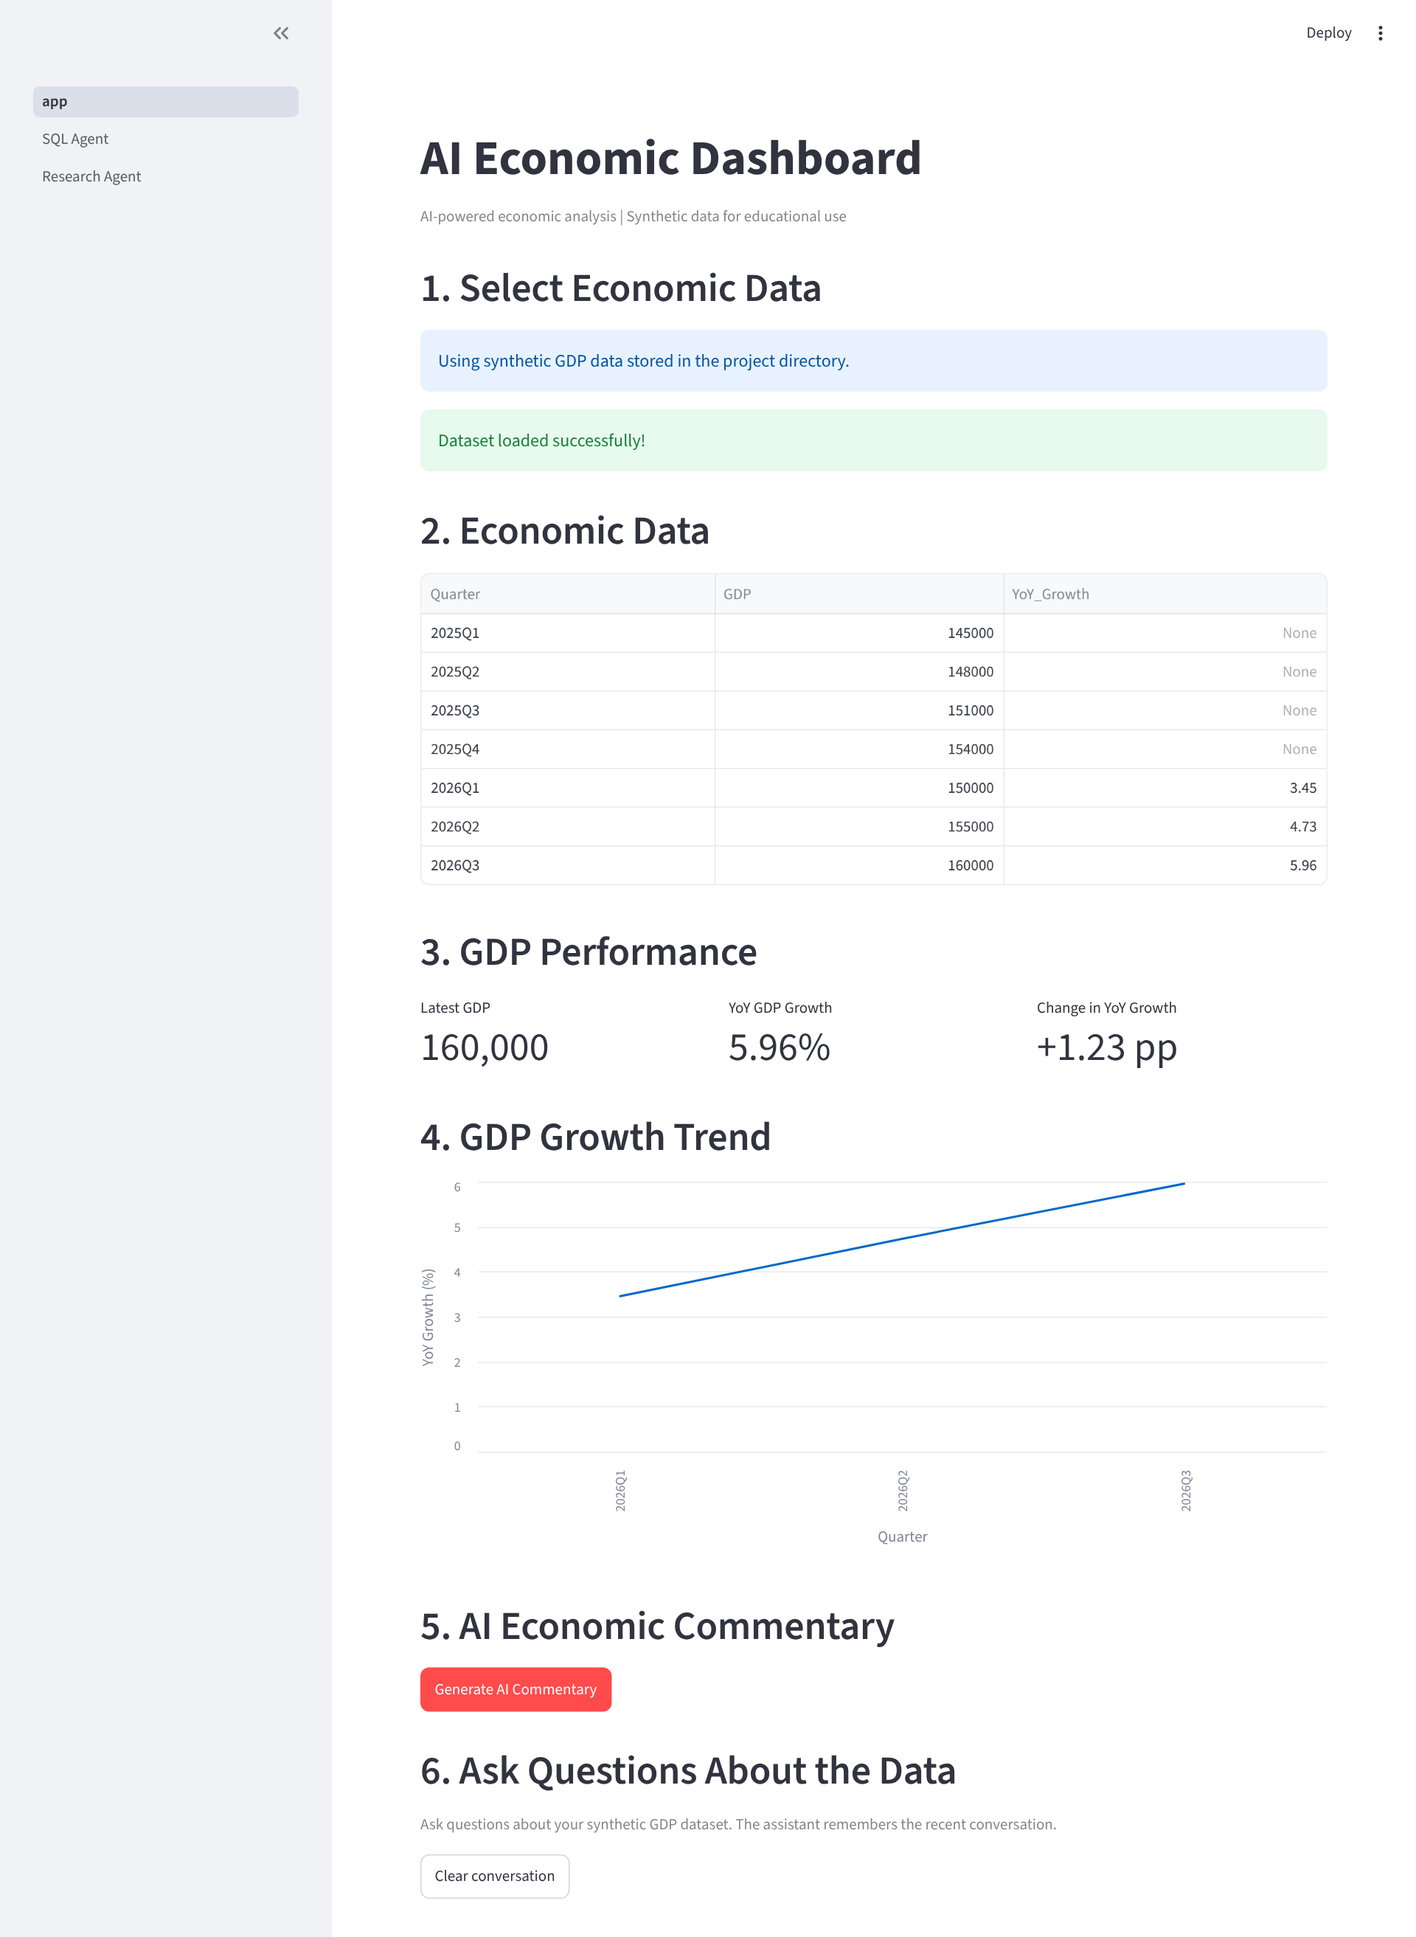
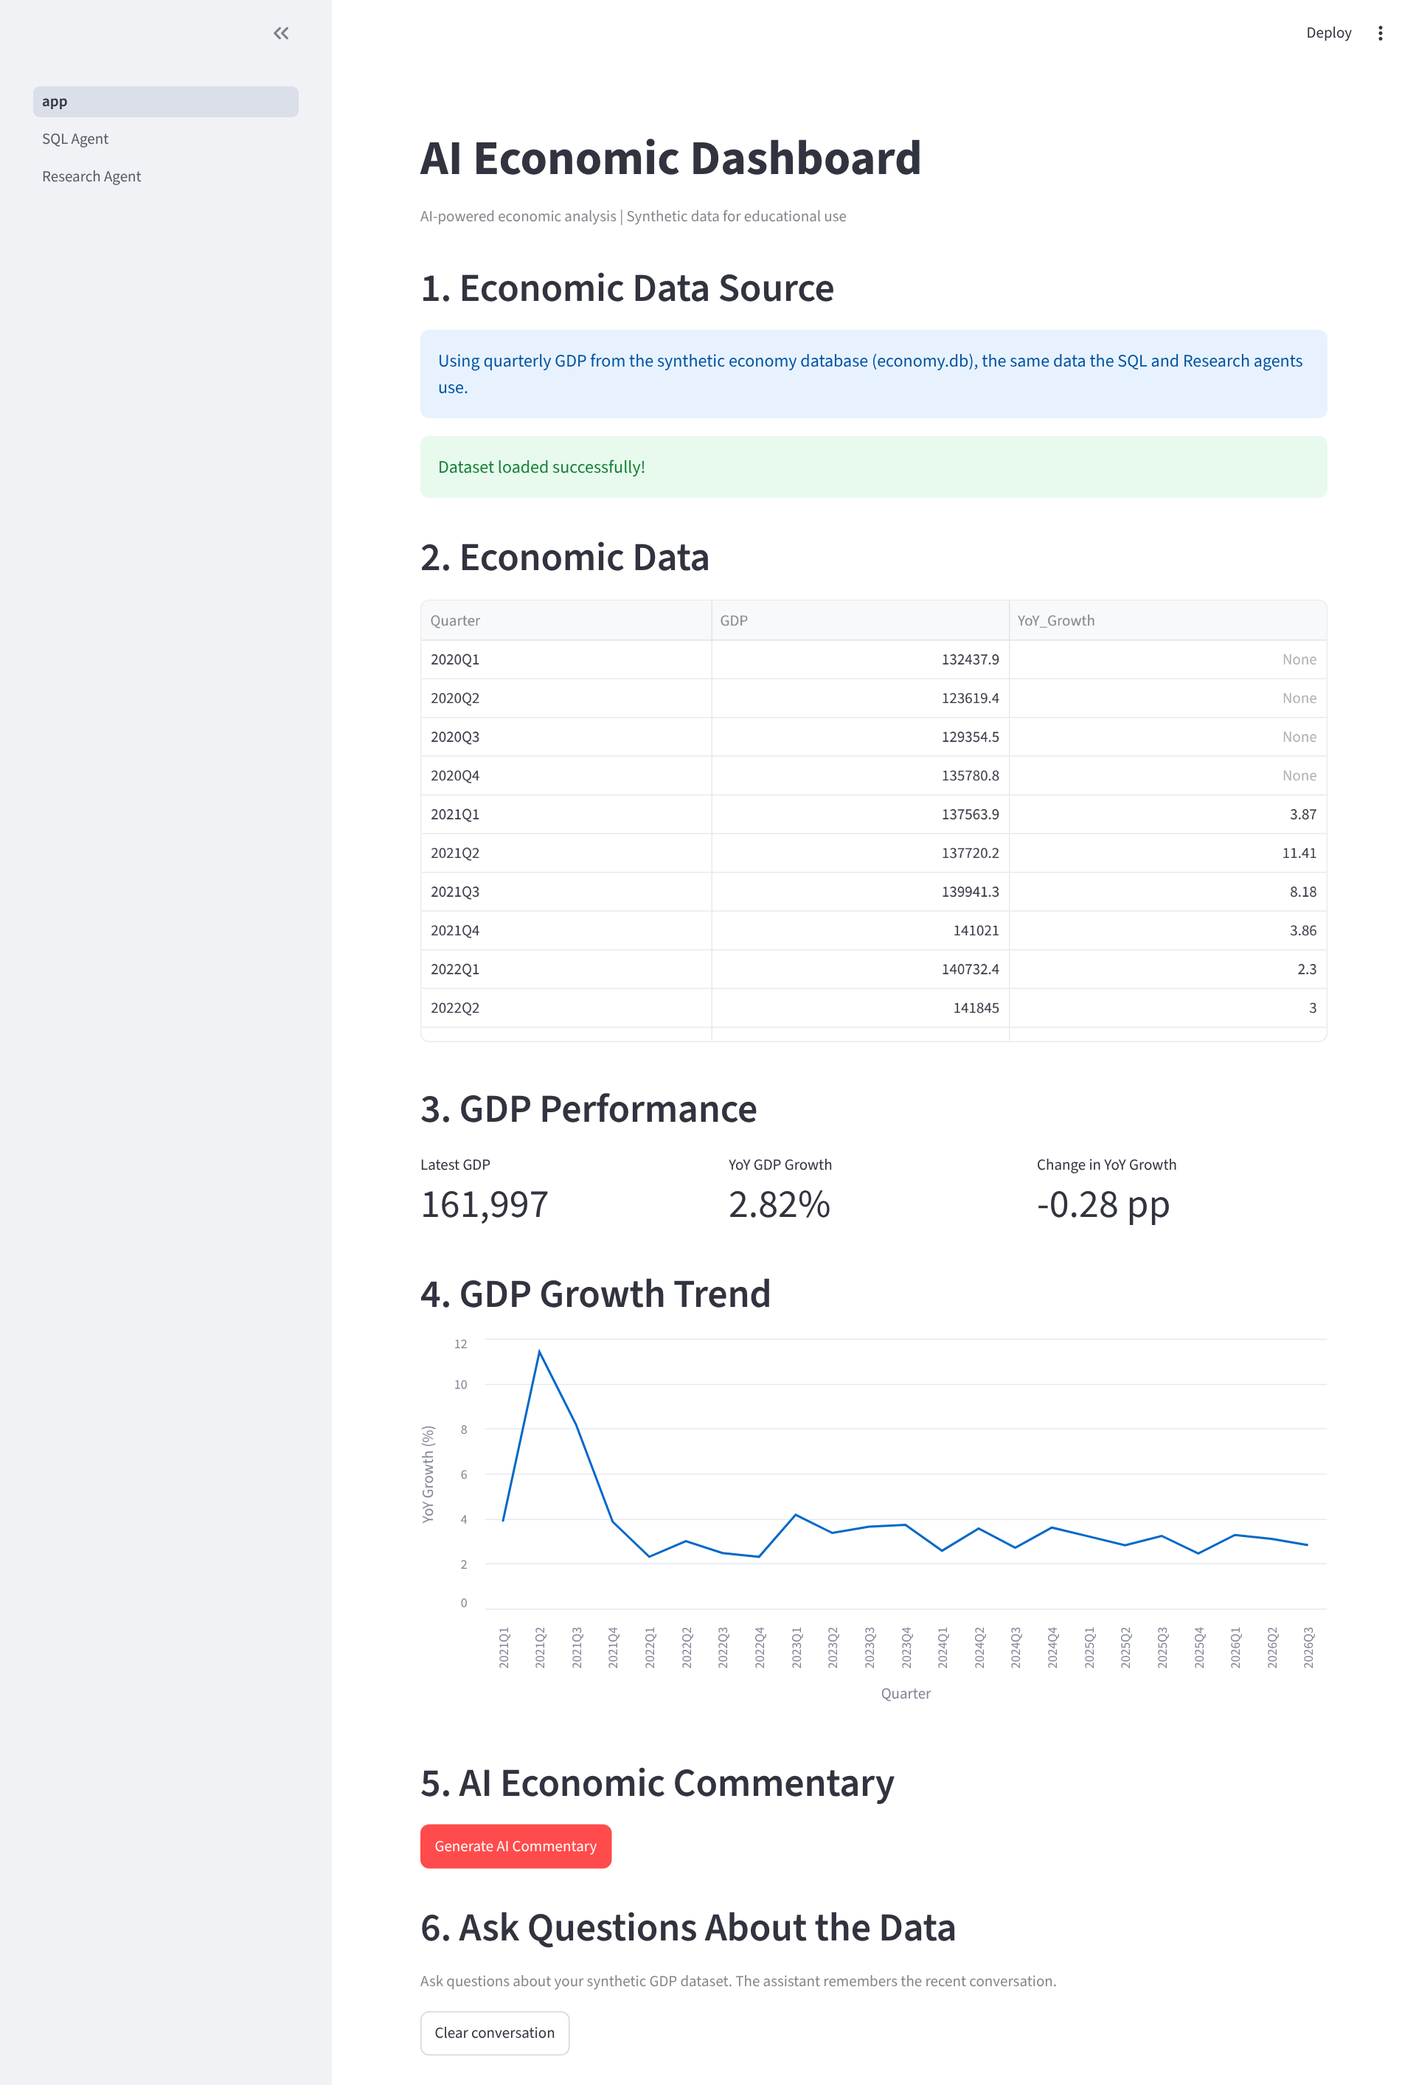
Use economy.db as the single data source for the dashboard
The dashboard, its chat agent and /metrics read a 7-quarter CSV whose
figures disagreed with economy.db (2026Q3 YoY growth 5.96% vs 2.82%).
They now read the gdp_quarterly view, so every page reports the same
numbers and the growth chart covers 23 quarters.

- economic_analyst.load_data reads economy.db read-only; validation
  moves to validate_data.
- Remove economic_data.csv.
- Rename the CSV agent to the dashboard agent and /ask/csv to
  /ask/dashboard.
- Add test_economic_analyst.py, including a check that the dashboard's
  growth matches the gdp_growth view.
- Update README, CLAUDE.md, Dockerfile and the screenshot.

Claude-Session: https://claude.ai/code/session_01FHMozhuKW1HHLvgubEuSCo

diff --git a/economic_analyst.py b/economic_analyst.py
@@ -1,13 +1,13 @@
 
-import os
+import sqlite3
+from pathlib import Path
+
 import pandas as pd
-#from google import genai
-#from google.genai import types
-#from openai import OpenAI
 from ai_config import get_ai_client, MODEL_NAME
 from pydantic import BaseModel
 
-#MODEL_NAME = "gemini-3.8-flash"
+DB_PATH = Path(__file__).resolve().parent / "economy.db"
+
 # =====================================
 # 1. DEFINE AI OUTPUT STRUCTURE
 # =====================================
@@ -24,14 +24,40 @@ class EconomicReport(BaseModel):
 # 2. LOAD AND VALIDATE DATA
 # =====================================
 
-def load_data(filename):
-    df = pd.read_csv(filename)
+def load_data(db_path=None):
+    """
+    Load quarterly GDP from economy.db, the same source the SQL and
+    Research agents use, so every page reports the same figures.
+    """
+    db_path = Path(db_path or DB_PATH)
+
+    if not db_path.exists():
+        raise ValueError(f"Database not found: {db_path.name}")
+
+    conn = sqlite3.connect(f"{db_path.as_uri()}?mode=ro", uri=True)
+    try:
+        df = pd.read_sql_query(
+            "SELECT quarter AS Quarter, gdp AS GDP "
+            "FROM gdp_quarterly ORDER BY quarter",
+            conn,
+        )
+    except (sqlite3.Error, pd.errors.DatabaseError) as error:
+        raise ValueError(f"Could not read GDP data: {error}")
+    finally:
+        conn.close()
+
+    return validate_data(df)
+
+
+def validate_data(df):
+    """Check a Quarter/GDP table and return it sorted by quarter."""
+    df = df.copy()
 
     required = {"Quarter", "GDP"}
 
     if not required.issubset(df.columns):
         raise ValueError(
-            "CSV must contain Quarter and GDP columns"
+            "Data must contain Quarter and GDP columns"
         )
 
     if df.empty:
@@ -240,11 +266,10 @@ def save_report(report, stats, filename):
 # =====================================
 
 def main():
-    input_file = "economic_data.csv"
     output_file = "economic_report.txt"
 
     print("Loading economic data...")
-    df = load_data(input_file)
+    df = load_data()
 
     print("Calculating GDP growth...")
     stats = calculate_growth(df)

diff --git a/test_economic_analyst.py b/test_economic_analyst.py
@@ -1,0 +1,66 @@
+"""Offline tests for loading and validating the dashboard's GDP data."""
+import sqlite3
+
+import pandas as pd
+import pytest
+
+from build_database import build_database
+from economic_analyst import calculate_growth, load_data, validate_data
+from sql_tools import run_sql_query
+
+
+@pytest.fixture
+def db(tmp_path):
+    path = tmp_path / "test.db"
+    build_database(path)
+    return path
+
+
+def test_loads_every_quarter_in_order(db):
+    df = load_data(db)
+    assert len(df) == 27
+    assert str(df["Quarter"].iloc[0]) == "2020Q1"
+    assert str(df["Quarter"].iloc[-1]) == "2026Q3"
+
+
+def test_dashboard_growth_matches_the_sql_view(db):
+    # The dashboard and the SQL agents must report the same figures
+    stats = calculate_growth(load_data(db))
+    rows = run_sql_query(
+        "SELECT quarter, yoy_growth_pct FROM gdp_growth "
+        "ORDER BY quarter DESC LIMIT 2", db
+    )["rows"]
+    assert stats["quarter"] == rows[0][0]
+    assert stats["growth"] == pytest.approx(rows[0][1])
+    assert stats["previous_growth"] == pytest.approx(rows[1][1])
+
+
+def test_missing_database_raises_value_error(tmp_path):
+    with pytest.raises(ValueError, match="not found"):
+        load_data(tmp_path / "missing.db")
+
+
+def test_database_without_the_view_raises_value_error(tmp_path):
+    path = tmp_path / "empty.db"
+    sqlite3.connect(path).close()
+    with pytest.raises(ValueError, match="Could not read"):
+        load_data(path)
+
+
+def frame(quarters, gdp):
+    return pd.DataFrame({"Quarter": quarters, "GDP": gdp})
+
+
+QUARTERS = ["2025Q1", "2025Q2", "2025Q3", "2025Q4", "2026Q1", "2026Q2"]
+
+
+@pytest.mark.parametrize("df, message", [
+    (frame(QUARTERS[:5] + ["2026Q3"], [1] * 6), "Missing quarters"),
+    (frame(QUARTERS[:5] + ["2026Q1"], [1] * 6), "Duplicate"),
+    (frame(QUARTERS, [1, 1, 1, 1, 1, 0]), "positive"),
+    (frame(QUARTERS[:5], [1] * 5), "At least 6"),
+    (pd.DataFrame({"Quarter": QUARTERS}), "Quarter and GDP"),
+])
+def test_validation_rejects_bad_data(df, message):
+    with pytest.raises(ValueError, match=message):
+        validate_data(df)

diff --git a/api.py b/api.py
@@ -7,7 +7,6 @@ Then open http://127.0.0.1:8000/docs for interactive documentation.
 The /metrics endpoint is pure pandas and needs no API key.
 The /ask endpoints call the LLM and need CEREBRAS_API_KEY.
 """
-from pathlib import Path
 from typing import Literal
 
 from fastapi import FastAPI, HTTPException
@@ -19,8 +18,6 @@ import sql_agent
 from economic_analyst import calculate_growth, load_data
 from rag_tools import INDEX_DIR
 from sql_tools import DB_PATH
-
-DATA_FILE = Path(__file__).resolve().parent / "economic_data.csv"
 
 MAX_QUESTION_CHARS = 1000
 MAX_HISTORY_MESSAGES = 20  # the agents only use the last few anyway
@@ -90,7 +87,6 @@ def health() -> dict:
     """Liveness check, plus which data files are available."""
     return {
         "status": "ok",
-        "csv_data": DATA_FILE.exists(),
         "database": DB_PATH.exists(),
         "report_index": INDEX_DIR.exists(),
     }
@@ -98,10 +94,10 @@ def health() -> dict:
 
 @app.get("/metrics", response_model=Metrics)
 def metrics() -> dict:
-    """Latest GDP and YoY growth from the CSV dataset (no LLM)."""
+    """Latest GDP and YoY growth from the database (no LLM)."""
     try:
-        return calculate_growth(load_data(DATA_FILE))
-    except (OSError, ValueError) as error:
+        return calculate_growth(load_data())
+    except ValueError as error:
         raise HTTPException(500, f"Invalid dataset: {error}")
 
 
@@ -124,12 +120,12 @@ def _run(run_agent, question: Question, *extra) -> dict:
     return {"answer": answer, "trace": trace}
 
 
-@app.post("/ask/csv", response_model=Answer)
-def ask_csv(question: Question) -> dict:
-    """Ask the CSV agent (pandas tools over 7 quarters)."""
+@app.post("/ask/dashboard", response_model=Answer)
+def ask_dashboard(question: Question) -> dict:
+    """Ask the dashboard agent (pandas tools over quarterly GDP)."""
     try:
-        df = load_data(DATA_FILE)
-    except (OSError, ValueError) as error:
+        df = load_data()
+    except ValueError as error:
         raise HTTPException(500, f"Invalid dataset: {error}")
     return _run(agent.run_agent, question, df)
 

diff --git a/test_api.py b/test_api.py
@@ -25,7 +25,7 @@ def fake_agents(monkeypatch):
             return f"{name} answer", [STEP]
         return fake
 
-    monkeypatch.setattr(agent, "run_agent", make("csv"))
+    monkeypatch.setattr(agent, "run_agent", make("dashboard"))
     monkeypatch.setattr(sql_agent, "run_sql_agent", make("sql"))
     monkeypatch.setattr(research_agent, "run_research_agent", make("research"))
     return calls
@@ -34,19 +34,18 @@ def fake_agents(monkeypatch):
 def test_health():
     body = client.get("/health").json()
     assert body["status"] == "ok"
-    assert body["csv_data"] and body["database"]
+    assert body["database"]
 
 
 def test_metrics_match_the_dashboard_calculation():
     body = client.get("/metrics").json()
     assert body["quarter"] == "2026Q3"
-    assert body["gdp"] == 160000
-    # 160000 / 151000 - 1 = 5.96 %
-    assert body["growth"] == pytest.approx(5.96)
+    assert body["growth"] == pytest.approx(2.82)  # same as the gdp_growth view
+    assert body["growth_change"] == pytest.approx(-0.28)
 
 
 @pytest.mark.parametrize("path, name", [
-    ("/ask/csv", "csv"), ("/ask/sql", "sql"), ("/ask/research", "research"),
+    ("/ask/dashboard", "dashboard"), ("/ask/sql", "sql"), ("/ask/research", "research"),
 ])
 def test_each_endpoint_calls_its_agent(fake_agents, monkeypatch, tmp_path, path, name):
     monkeypatch.setattr(api, "INDEX_DIR", tmp_path)  # pretend the index exists
@@ -65,11 +64,11 @@ def test_history_is_passed_to_the_agent(fake_agents):
     assert passed == history
 
 
-def test_csv_agent_gets_the_dataframe(fake_agents):
-    client.post("/ask/csv", json={"question": "q"})
+def test_dashboard_agent_gets_the_dataframe(fake_agents):
+    client.post("/ask/dashboard", json={"question": "q"})
     df = fake_agents[0][1][0]
     assert list(df.columns) == ["Quarter", "GDP"]
-    assert len(df) == 7
+    assert len(df) == 27
 
 
 @pytest.mark.parametrize("body", [

diff --git a/app.py b/app.py
@@ -1,5 +1,4 @@
 
-from pathlib import Path
 
 import pandas as pd
 import streamlit as st
@@ -45,21 +44,12 @@ if "data_signature" not in st.session_state:
 # 2. LOAD SAMPLE DATASET
 # =====================================
 
-st.header("1. Select Economic Data")
-
-data_file = (
-    Path(__file__).resolve().parent
-    / "economic_data.csv"
-)
+st.header("1. Economic Data Source")
 
 st.info(
-    "Using synthetic GDP data stored "
-    "in the project directory."
+    "Using quarterly GDP from the synthetic economy database "
+    "(economy.db), the same data the SQL and Research agents use."
 )
-
-if not data_file.exists():
-    st.error("economic_data.csv not found.")
-    st.stop()
 
 
 # =====================================
@@ -67,10 +57,10 @@ if not data_file.exists():
 # =====================================
 
 try:
-    df = load_data(data_file)
+    df = load_data()
     stats = calculate_growth(df)
 
-except (ValueError, pd.errors.ParserError) as error:
+except ValueError as error:
     st.error(f"Invalid dataset: {error}")
     st.stop()
 

diff --git a/test_agent_core.py b/test_agent_core.py
@@ -128,7 +128,7 @@ def capture_call(monkeypatch, module):
     return seen
 
 
-def test_csv_agent_uses_shared_loop(monkeypatch):
+def test_dashboard_agent_uses_shared_loop(monkeypatch):
     seen = capture_call(monkeypatch, agent)
     df = pd.DataFrame({"Quarter": ["2026Q1"], "GDP": [100.0]})
 

diff --git a/try_agent.py b/try_agent.py
@@ -1,7 +1,7 @@
 from economic_analyst import load_data
 from agent import run_agent
 
-df = load_data("economic_data.csv")
+df = load_data()
 
 questions = [
     "What was the average YoY growth from 2026Q1 to 2026Q3, "

diff --git a/README.md b/README.md
@@ -8,7 +8,8 @@ A Streamlit app that analyses quarterly economic data and lets you ask questions
 
 ## Features
 
-- **Data validation:** checks the CSV for missing quarters, duplicates, non-positive values and too little history.
+- **One source of truth:** the dashboard, the chat and all three agents read the same SQLite database, so every page reports the same figures. A test checks that the dashboard's growth matches the SQL view.
+- **Data validation:** checks the GDP data for missing quarters, duplicates, non-positive values and too little history.
 - **GDP metrics and chart:** latest GDP, year-on-year (YoY) growth, change in growth, and a growth trend chart.
 - **AI commentary:** generates a short economic commentary and key observation. The app checks that the model's quarter and growth figures match the calculated ones, and rejects the output if they don't.
 - **Chat with your data:** an agent that answers questions using tool calling.
@@ -43,11 +44,11 @@ All three agents share this loop (`agent_core.run_tool_agent`) and differ only i
 
 | Agent | Data | Tools |
 |---|---|---|
-| CSV agent (`agent.py`) | `economic_data.csv`, 7 quarters | pandas functions below |
+| Dashboard agent (`agent.py`) | `economy.db` GDP, loaded into pandas | pandas functions below |
 | SQL agent (`sql_agent.py`) | `economy.db`, 27 quarters | `run_sql_query` |
 | Research agent (`research_agent.py`) | `economy.db` + `reports/` | `run_sql_query`, `search_reports` |
 
-### CSV agent tools
+### Dashboard agent tools
 
 | Tool | What it does |
 |---|---|
@@ -62,13 +63,13 @@ All three agents share this loop (`agent_core.run_tool_agent`) and differ only i
 ## Project structure
 
 ```
-app.py                  Streamlit dashboard and CSV chat (main page)
+app.py                  Streamlit dashboard and chat (main page)
 api.py                  FastAPI REST API for the agents and metrics
 Dockerfile              Container image for the API
 pages/1_SQL_Agent.py    SQL agent page
 pages/2_Research_Agent.py  Research agent page
 agent_core.py           Shared agent loop: memory, multi-step tool calling, trace
-agent.py                CSV agent (prompt + pandas tools)
+agent.py                Dashboard agent (prompt + pandas tools)
 analyst_tools.py        Pandas tool functions and their schemas
 sql_agent.py            SQL agent (prompt, schema description, tool schema)
 sql_tools.py            Safe read-only run_sql_query
@@ -77,7 +78,6 @@ rag_tools.py            Report chunking and search_reports (ChromaDB)
 grounding.py            Checks citations, quotations and percentages against tool results
 economic_analyst.py     Data loading, validation, growth stats, AI commentary
 ai_config.py            LLM client and model settings
-economic_data.csv       Synthetic quarterly GDP data (CSV agent)
 build_database.py       Generates economy.db (fixed seed)
 make_reports.py         Generates reports/*.md
 build_index.py          Builds the ChromaDB index in chroma_db/
@@ -116,7 +116,7 @@ The key is read from the environment and is never stored in the repo. The LLM cl
 |---|---|---|---|
 | GET | `/health` | Liveness check and which data files exist | No |
 | GET | `/metrics` | Latest GDP, YoY growth and change in growth | No |
-| POST | `/ask/csv` | CSV agent | Yes |
+| POST | `/ask/dashboard` | Dashboard agent | Yes |
 | POST | `/ask/sql` | SQL agent | Yes |
 | POST | `/ask/research` | Research agent with source checks | Yes |
 
@@ -172,7 +172,6 @@ The `try_*.py` scripts call the live API and are named so pytest skips them. Run
 
 ## Limitations
 
-- The CSV dataset has only 7 quarters, so YoY growth exists for just the last three. The SQL and Research agents use the larger 27-quarter database.
 - The reports are short and fictional, so the Research agent can only explain events they cover. It says so when they don't.
 - Conversation memory keeps the final answers, not the raw tool results, so an earlier mistake could carry into later turns.
 - There is no forecasting, by design.

diff --git a/CLAUDE.md b/CLAUDE.md
@@ -42,7 +42,7 @@ pytest test_rag_tools.py -k split -q # one test by name
 **Agent loop:** all agents use the same loop. The model calls tools until it answers, with up to `max_rounds` rounds. Then a final call with `tool_choice="none"` forces a best-effort answer. Each agent returns `(answer, trace)`, and the UI shows the trace as "Tools used". Memory keeps only the last N user/assistant turns, skipping any message flagged `is_error`. The loop lives only in `agent_core.run_tool_agent`; `agent.py`, `sql_agent.py` and `research_agent.py` are thin wrappers that pass their own prompt, tools and limits. `test_agent_core.py` covers it with a fake client.
 
 **Three agents, three data sources:**
-- `agent.py` + `analyst_tools.py`: pandas tools over `economic_data.csv` (7 quarters). Used by `app.py`.
+- `agent.py` + `analyst_tools.py`: pandas tools over quarterly GDP that `economic_analyst.load_data` reads from the `gdp_quarterly` view. Used by `app.py` (dashboard and chat) and `/ask/dashboard`. Everything reads `economy.db`, so there is one source of truth; `test_economic_analyst.py` checks the dashboard's growth matches the `gdp_growth` view.
 - `sql_agent.py` + `sql_tools.py`: text-to-SQL over `economy.db` (27 quarters, `sector_output` table plus `gdp_quarterly` / `gdp_growth` views). `run_sql_query` is safe in layers: SELECT/WITH only, a read-only URI connection, a SQLite authorizer allowlist, a 2s progress-handler timeout and a 50-row cap with a `truncated` flag. Keep all of these layers.
 - `research_agent.py`: SQL tools plus `search_reports` (`rag_tools.py`, ChromaDB with its built-in local embeddings). Afterwards, `grounding.check_grounding` verifies that every `[file.md]` citation was actually retrieved, every quotation of 6+ words matches retrieved text (3-word shingles, ≥70% coverage), and every percentage matches a number in an SQL result or retrieved passage. On failure the agent retries once with the problems listed; the retry is checked only against its own trace, since it runs in a fresh conversation. If the retry also fails, it refuses rather than show an unverified answer.
 
